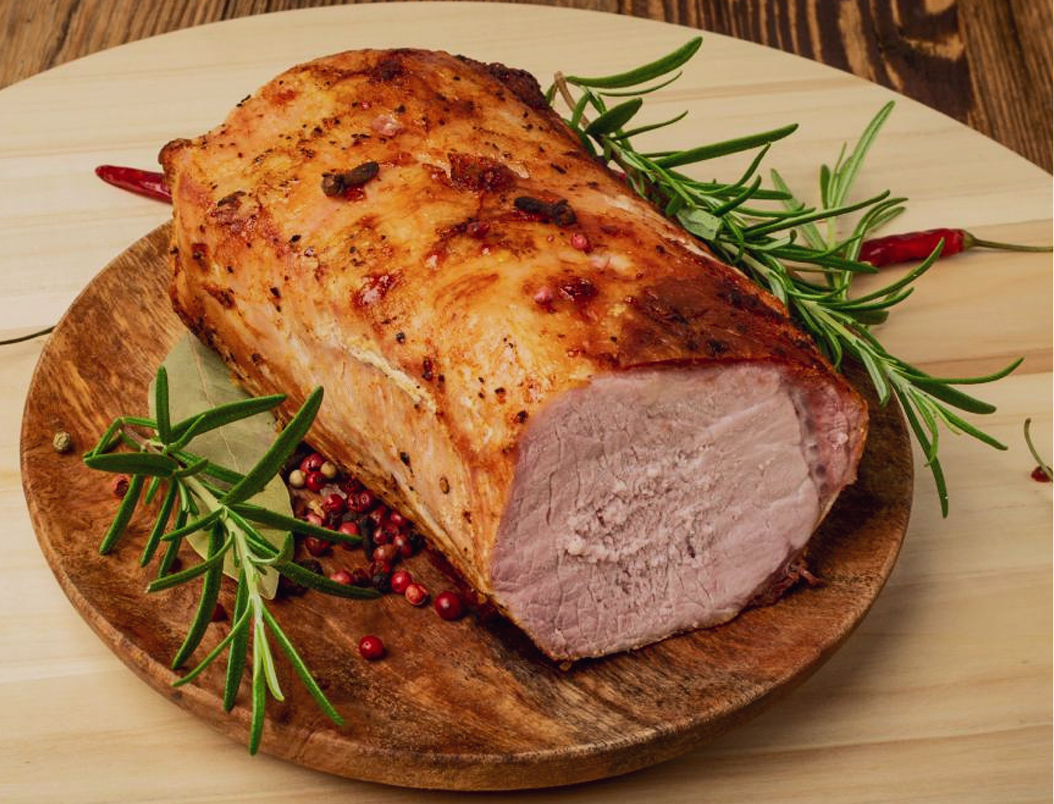
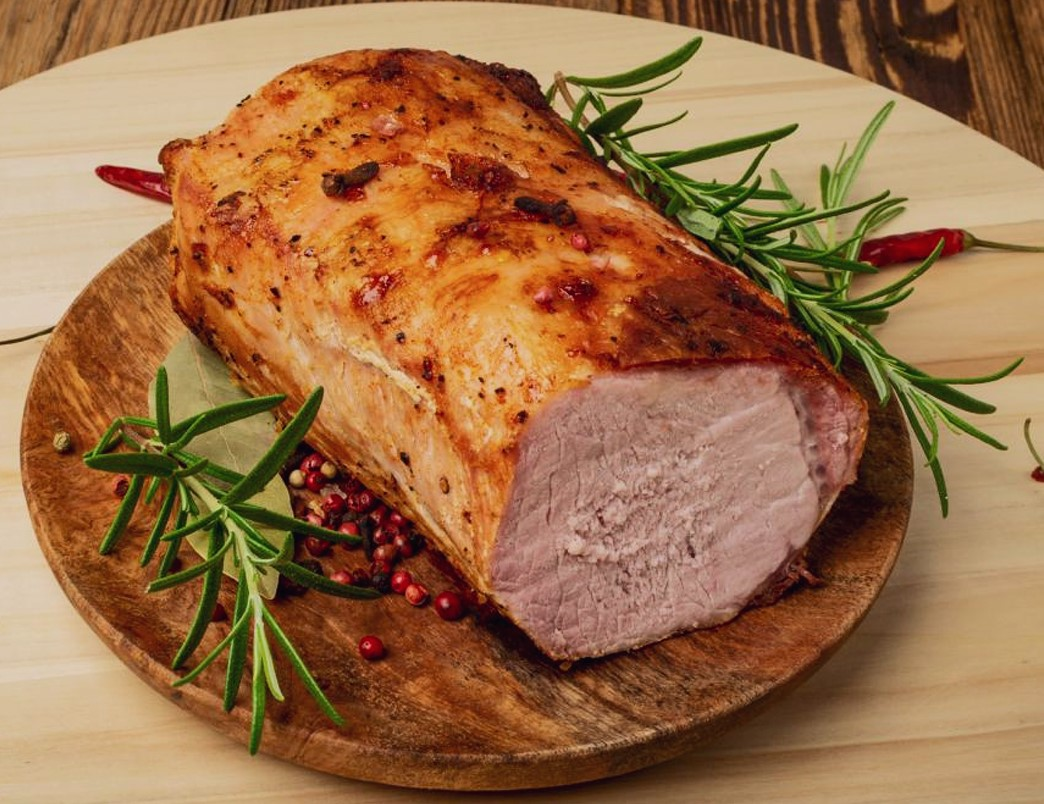
ok

Changed region(s): [[0.092, 0.0, 1.0, 0.9639], [0.1533, 0.0, 0.3372, 0.0311], [0.9502, 0.4353, 0.9808, 0.4664]]

diff --git a/public/css/css_paginas/css_receitas_entradas.css b/public/css/css_paginas/css_receitas_entradas.css
@@ -303,10 +303,16 @@ h1 {
     margin: 0 20px;
 }
 .modo-preparo{
-    display: flex; /* Alinha as divs lado a lado */
-    gap: 20px; /* Define o espaçamento entre as divs */
-    justify-content: space-between; /* Distribui o espaço entre as divs */
+
+    display: flex;
+    gap: 20px;
+    justify-content: center;
     padding: 20px;
+    align-items: center;
+}
+
+h2 {
+  margin-top: 20px;
 }
 .texto-titulo{
     align-items: center;

diff --git a/public/css/css_paginas/receita-edicao.css b/public/css/css_paginas/receita-edicao.css
@@ -340,10 +340,10 @@ h1 {
 }
 
 .modo-preparo{
-    display: flex; /* Alinha as divs lado a lado */
-    gap: 20px; /* Define o espaçamento entre as divs */
-    justify-content: space-between; /* Distribui o espaço entre as divs */
-    padding: 20px;
+  display: flex;
+      gap: 20px;
+      justify-content: center;
+      padding: 20px;
 }
 .texto-titulo{
     align-items: center;
